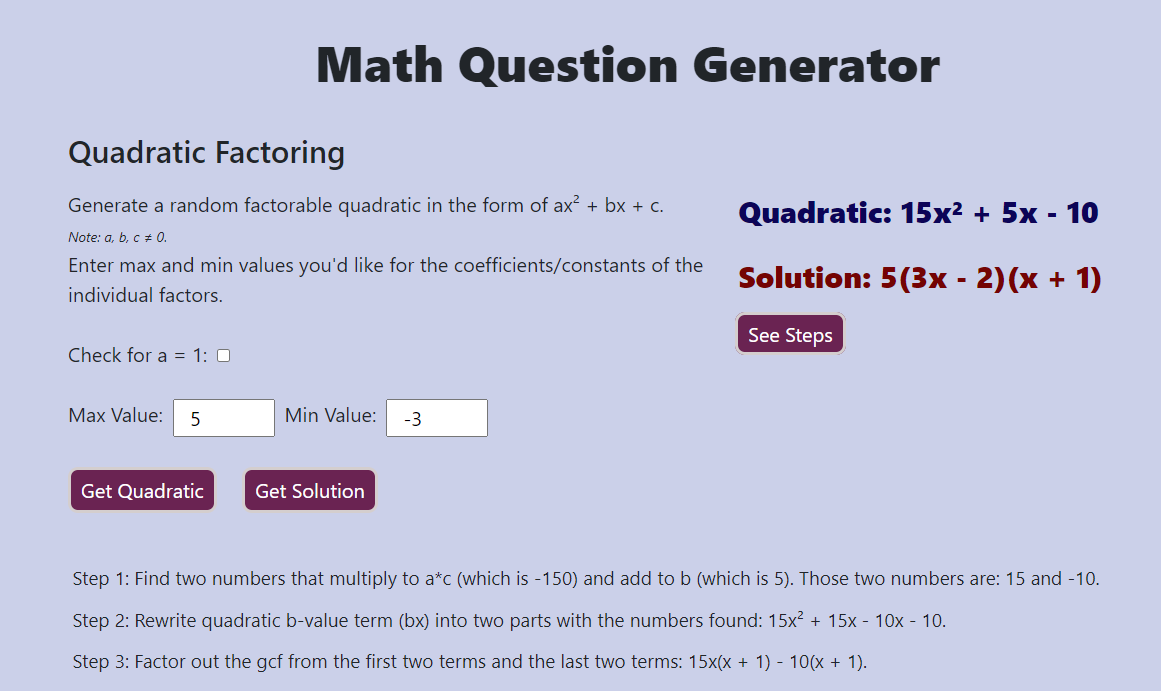
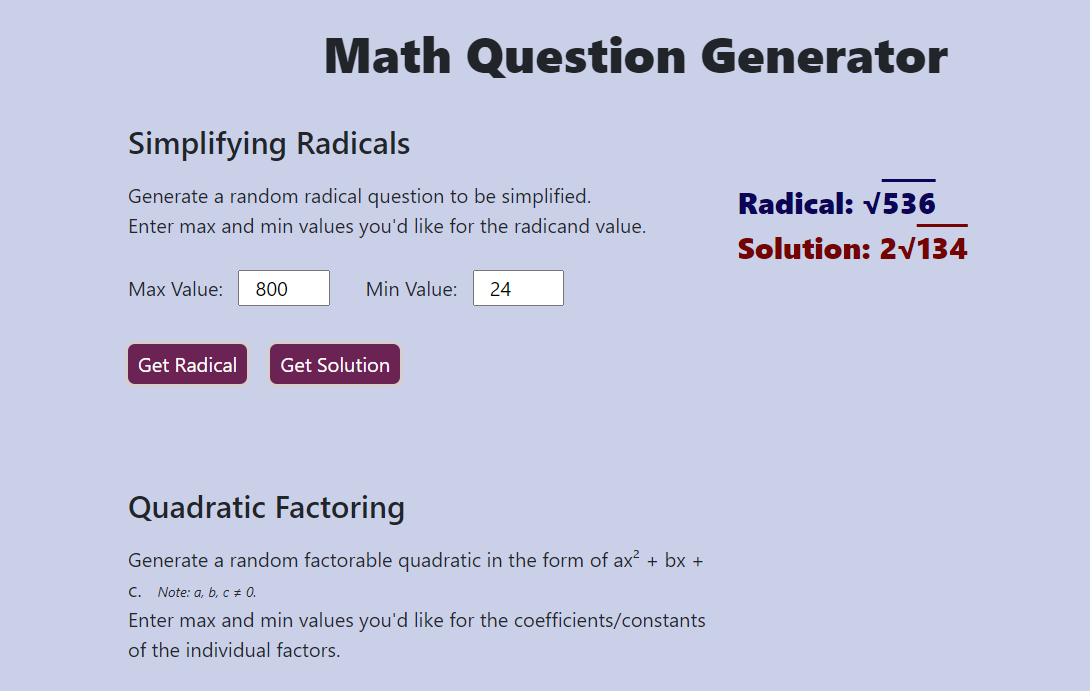
Math Question Update for Radicals

diff --git a/projects.html b/projects.html
@@ -406,9 +406,10 @@ l-20 29 -133 0 c-95 0 -136 -4 -143 -12z"
             <div class="smallPTitle">Math Question App</div>
             <div class="smallPExTitle">Web Application</div>
             <div class="projectExp">
-              This math question app generates a factorable quadratic trinomial
-              with max and min coeffcieint values inputted by the user. Option
-              to see the solution and steps is given.
+              This math question app generates either a radical problem to be
+              simplified or a factorable quadratic trinomial problem with max
+              and min coeffcieint values inputted by the user. A solution is
+              also provided.
             </div>
             <div>
               <a
